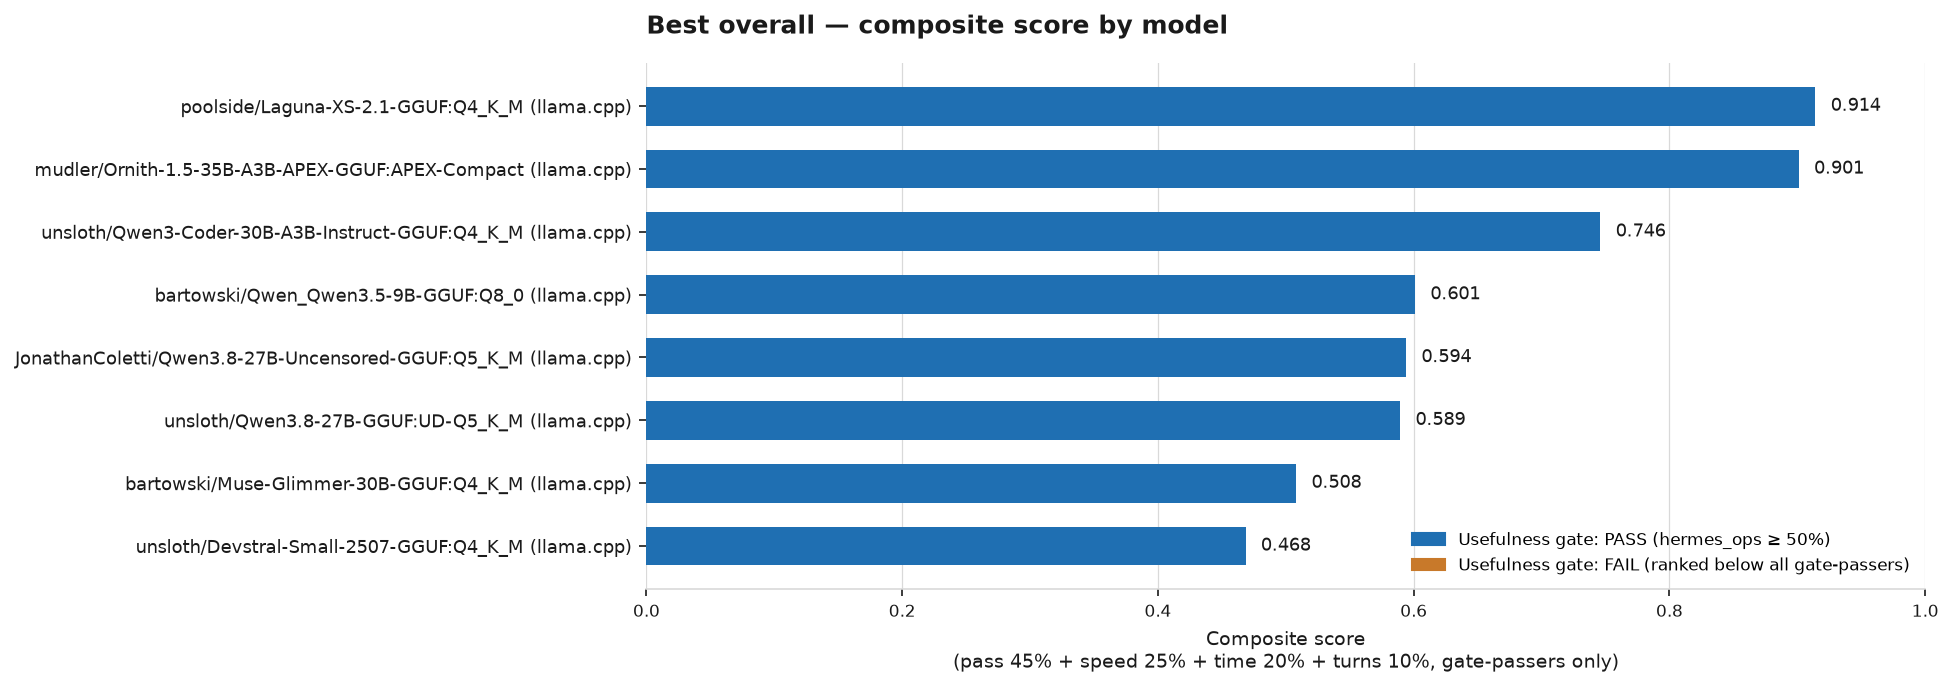
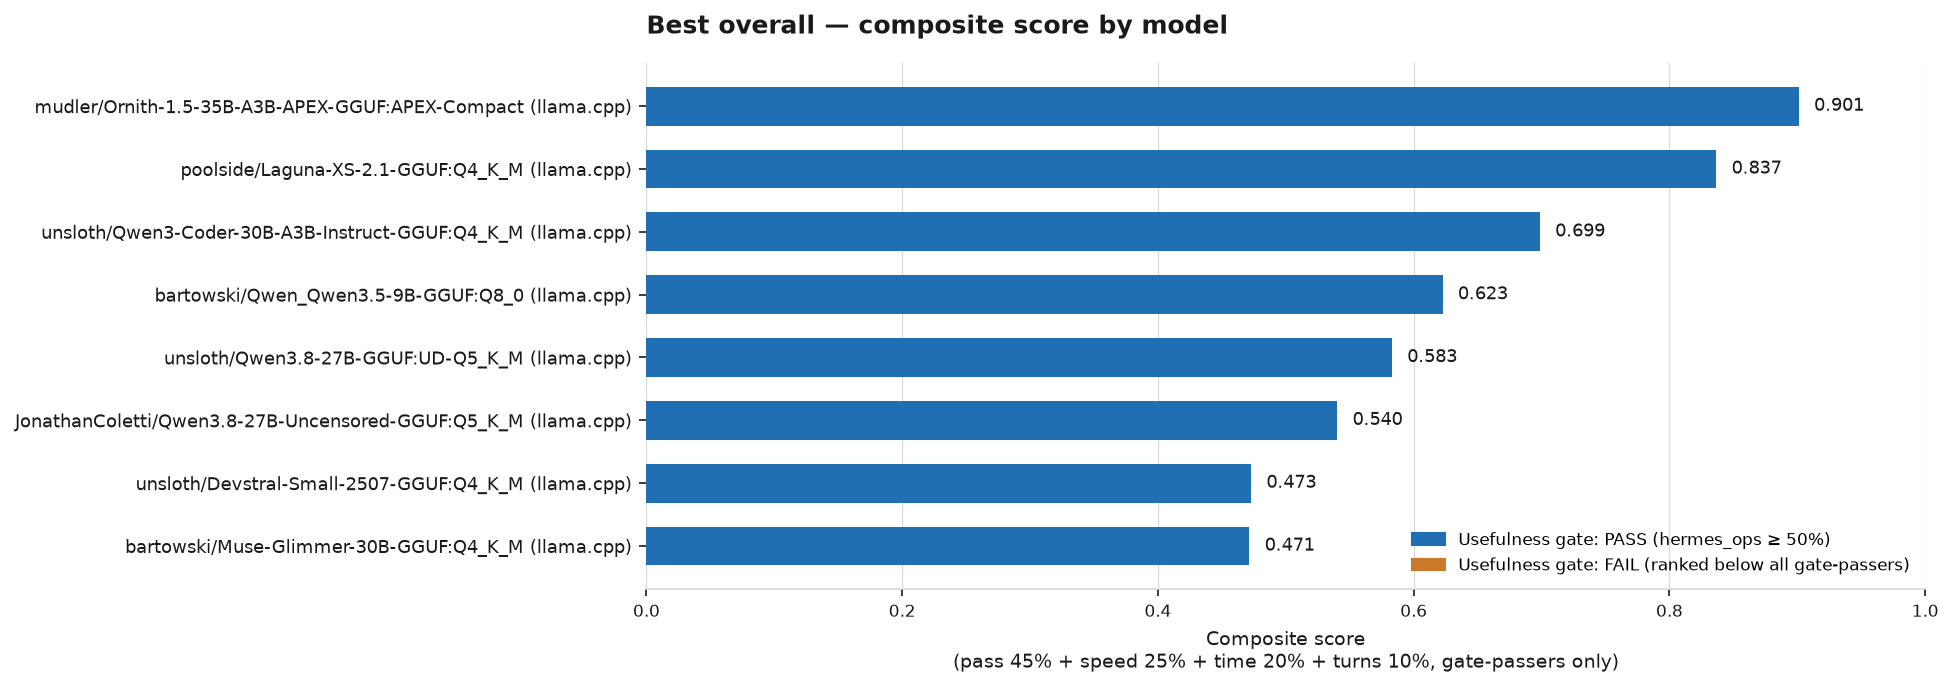
Score combined hermes_ops+coding pass rate, not coding alone
Laguna-XS-2.1 (91% coding, bare 50% hermes_ops) had briefly ranked #1 over
APEX-Compact (100% on both) purely on speed/time, because hermes_ops only
ever gated (pass/fail at >=50%) and never affected score once past that gate
-- a 50% and a 100% hermes_ops record scored identically. User's call: score
every hermes_ops and coding task as one equal unit toward a single combined
"pass" rate, rather than treating hermes_ops-quality as invisible above the
gate or adding a separately-weighted axis for it.

_composite_coding_score's "pass" component is now (hermes_ops passes +
coding passes) / (hermes_ops tasks + coding tasks), replacing coding-only
coding_pass_rate. The >=50% hermes_ops gate itself is unchanged -- this only
changes scoring among gate-passers. Regenerating: APEX-Compact is back to #1
(0.901, unchanged since it was already 100%/100%), Laguna-XS-2.1 drops to #2
(0.837, down from 0.914) -- matching this project's actual hand-curated
recommendation without needing a caveat about the chart's top row.

Added a regression test reproducing the exact Laguna-vs-APEX scenario,
confirmed to fail on the pre-fix code and pass on the fix. Full suite:
200/200 green.

Claude-Session: https://claude.ai/code/session_012m5xNdf5R4K1kRH1AoGN1f

diff --git a/runner/build_leaderboard.py b/runner/build_leaderboard.py
@@ -337,13 +337,11 @@ def compute_group_stats(groups):
 
         coding_scored = [r for r in non_sanity_scored if r["suite"] in CODING_SUITES]
         hermes_ops_scored = [r for r in non_sanity_scored if r["suite"] not in CODING_SUITES]
-        coding_pass_rate = (
-            sum(1 for r in coding_scored if r.get("pass")) / len(coding_scored)
-            if coding_scored else None
-        )
+        n_coding_pass = sum(1 for r in coding_scored if r.get("pass"))
+        n_hermes_ops_pass = sum(1 for r in hermes_ops_scored if r.get("pass"))
+        coding_pass_rate = n_coding_pass / len(coding_scored) if coding_scored else None
         hermes_ops_pass_rate = (
-            sum(1 for r in hermes_ops_scored if r.get("pass")) / len(hermes_ops_scored)
-            if hermes_ops_scored else None
+            n_hermes_ops_pass / len(hermes_ops_scored) if hermes_ops_scored else None
         )
 
         coding_wall_values = [r["wall_seconds"] for r in coding_scored if r.get("wall_seconds") is not None]
@@ -367,6 +365,8 @@ def compute_group_stats(groups):
             "reasoning_effort": reasoning_effort,
             "coding_pass_rate": coding_pass_rate,
             "hermes_ops_pass_rate": hermes_ops_pass_rate,
+            "n_coding_pass": n_coding_pass,
+            "n_hermes_ops_pass": n_hermes_ops_pass,
             "avg_coding_wall": avg_coding_wall,
             "avg_coding_turns": avg_coding_turns,
             "n_sanity": len(sanity_scored),
@@ -453,7 +453,10 @@ def rank_groups(group_stats):
     against an absolute target, since "fast" and "few turns" are only
     meaningful relative to what this hardware/task-set actually
     produces:
-      pass  = coding_pass_rate directly (already 0.0-1.0)
+      pass  = (hermes_ops passes + coding passes) / (hermes_ops tasks +
+              coding tasks) -- combined across BOTH suites, not coding
+              alone (changed 2026-08-29, see _composite_coding_score's
+              own comment for why)
       speed = avg_tps / fastest group's avg_tps
       time  = fastest (lowest) group's avg_coding_wall / this group's
               avg_coding_wall (shorter is better, so INVERTED)
@@ -547,7 +550,24 @@ def rank_groups(group_stats):
     )
 
     def _composite_coding_score(gs):
-        pass_component = gs["coding_pass_rate"] or 0.0
+        # "pass" reflects EVERY real task attempted -- hermes_ops AND
+        # coding combined, not coding alone -- fixed 2026-08-29 (user
+        # request) after Laguna-XS-2.1 (91% coding, but a bare 50%
+        # hermes_ops pass) ranked #1 over APEX-Compact (100% on both)
+        # purely on speed/time, since hermes_ops previously only gated
+        # (pass/fail at 50%) and never affected the score once past that
+        # gate -- a 50% and a 100% hermes_ops record scored identically.
+        # Each task, hermes_ops or coding, now counts as one equal unit
+        # toward "pass" ("each test passed adds to the total," per the
+        # user's own framing) rather than treating hermes_ops-quality and
+        # coding-quality as separate axes with their own weights. The
+        # >=50% hermes_ops GATE is unchanged and still applies first --
+        # this only changes what happens to score AMONG gate-passers.
+        pass_component = (
+            (gs["n_hermes_ops_pass"] + gs["n_coding_pass"])
+            / (gs["n_hermes_ops"] + gs["n_coding"])
+            if (gs["n_hermes_ops"] + gs["n_coding"]) else 0.0
+        )
         speed_component = (
             gs["avg_tps_val"] / max_tps_for_score
             if gs["avg_tps_val"] and max_tps_for_score else 0.0
@@ -751,7 +771,13 @@ def main():
     lines.append("fail-fast gate); every gate-passing group ranks above every gate-failing one")
     lines.append("regardless of the score below. **Score** among gate-passers is a weighted")
     lines.append(
-        f"composite over four coding-suite axes — pass rate ({CODING_SCORE_WEIGHTS['pass']:.0%}),"
+        f"composite over four axes — combined pass rate ({CODING_SCORE_WEIGHTS['pass']:.0%},"
+    )
+    lines.append(
+        "hermes_ops + coding tasks together, not coding alone — a 50%-hermes_ops record"
+    )
+    lines.append(
+        "no longer scores identically to a 100% one once both clear the gate above),"
     )
     lines.append(
         f"speed ({CODING_SCORE_WEIGHTS['speed']:.0%}), time taken ({CODING_SCORE_WEIGHTS['time']:.0%}),"

diff --git a/runner/tests/test_build_leaderboard.py b/runner/tests/test_build_leaderboard.py
@@ -501,6 +501,43 @@ class CompositeRankingTests(unittest.TestCase):
         wrong_rank = next(i for i, l in enumerate(section.splitlines()) if "| wrong " in l)
         self.assertLess(correct_rank, wrong_rank, "with equal speed, the higher-coding-pass-rate model must rank first")
 
+    def test_weak_hermes_ops_record_costs_score_even_above_the_gate(self):
+        # Real incident (2026-08-29): Laguna-XS-2.1 (91% coding, but a
+        # BARE 50% hermes_ops pass) ranked #1 over APEX-Compact (100% on
+        # both) purely on speed/time, because hermes_ops previously only
+        # gated (pass/fail at 50%) and never affected score once past
+        # that gate -- a 50% and a 100% hermes_ops record scored
+        # identically. "pass" now combines hermes_ops+coding into one
+        # rate, so a model that barely clears the gate scores lower than
+        # one with a clean sweep, even with a real speed/time edge.
+        rows = (
+            self._complete_rows(
+                "fast-but-unreliable", hermes_ops_passes=[True, True, False, False],
+                coding_passes=[True] * 10 + [False], tps=34.8, config_hash="h1",
+                wall_seconds=181, turns=24.5,
+            )
+            + self._complete_rows(
+                "slower-but-clean", hermes_ops_passes=[True] * 4,
+                coding_passes=[True] * 11, tps=28.6, config_hash="h2",
+                wall_seconds=215, turns=17.5,
+            )
+        )
+        self._write_log(rows)
+        bl.main()
+        text = (self.repo / "results" / "LEADERBOARD.md").read_text()
+        section = self._best_overall_section(text)
+        unreliable_rank = next(
+            i for i, l in enumerate(section.splitlines()) if "fast-but-unreliable" in l
+        )
+        clean_rank = next(
+            i for i, l in enumerate(section.splitlines()) if "slower-but-clean" in l
+        )
+        self.assertLess(
+            clean_rank, unreliable_rank,
+            "a clean hermes_ops sweep must outrank a bare-gate-pass record "
+            "with a speed/time edge, once hermes_ops quality is part of the score",
+        )
+
     def test_large_speed_advantage_can_outrank_modest_pass_rate_advantage(self):
         # Deliberate, documented consequence of pass+speed both carrying
         # real weight: a LARGE ENOUGH speed gap can still flip a modest

diff --git a/results/LEADERBOARD.md b/results/LEADERBOARD.md
@@ -297,7 +297,9 @@ suite coverage. **Usefulness gate** (pass/fail tier, not a weighted input) — h
 pass rate must be ≥50% (majority-pass, same concept as run_bench.py's sanity
 fail-fast gate); every gate-passing group ranks above every gate-failing one
 regardless of the score below. **Score** among gate-passers is a weighted
-composite over four coding-suite axes — pass rate (45%),
+composite over four axes — combined pass rate (45%,
+hermes_ops + coding tasks together, not coding alone — a 50%-hermes_ops record
+no longer scores identically to a 100% one once both clear the gate above),
 speed (25%), time taken (20%),
 and turns used (10%) — each normalized 0.0-1.0 against
 the best value seen among this run's gate-passing groups (see
@@ -312,14 +314,14 @@ most total coding+hermes_ops evidence, then recency.
 
 | rank | model | engine | quant | reasoning⁶ | config | usefulness gate | score | coding | speed | avg time (s) | avg turns |
 |---|---|---|---|---|---|---|---|---|---|---|---|
-| 1 | poolside/Laguna-XS-2.1-GGUF:Q4_K_M | llama.cpp | — | thinking | 644ba3997136 | PASS (50%, 8) | 0.914 | 91% (11) | 34.8 tok/s | 181 | 24.5 |
-| 2 | mudler/Ornith-1.5-35B-A3B-APEX-GGUF:APEX-Compact | llama.cpp | — | unspecified | 7b0652d1fb9e | PASS (100%, 8) | 0.901 | 100% (11) | 28.6 tok/s | 215 | 17.5 |
-| 3 | unsloth/Qwen3-Coder-30B-A3B-Instruct-GGUF:Q4_K_M | llama.cpp | — | instruct | 644415678c37 | PASS (75%, 8) | 0.746 | 100% (11) | 20.9 tok/s | 343 | 32.9 |
-| 4 | bartowski/Qwen_Qwen3.5-9B-GGUF:Q8_0 | llama.cpp | — | thinking | a2d241742068 | PASS (75%, 8) | 0.601 | 64% (11) | 21.0 tok/s | 353 | 21.8 |
-| 5 | JonathanColetti/Qwen3.8-27B-Uncensored-GGUF:Q5_K_M | llama.cpp | — | thinking (medium) | b03fc3f2b8f8 | PASS (62%, 8) | 0.594 | 91% (11) | 6.7 tok/s | 980 | 13.5 |
-| 6 | unsloth/Qwen3.8-27B-GGUF:UD-Q5_K_M | llama.cpp | — | thinking (medium) | 340ca3032e6c | PASS (88%, 8) | 0.589 | 91% (11) | 6.8 tok/s | 935 | 14.5 |
-| 7 | bartowski/Muse-Glimmer-30B-GGUF:Q4_K_M | llama.cpp | — | thinking | 38ccea45c281 | PASS (62%, 8) | 0.508 | 82% (11) | 8.5 tok/s | 973 | 32.4 |
-| 8 | unsloth/Devstral-Small-2507-GGUF:Q4_K_M | llama.cpp | — | n/a | ffa862c18cff | PASS (75%, 8) | 0.468 | 73% (11) | 7.7 tok/s | 902 | 29.4 |
+| 1 | mudler/Ornith-1.5-35B-A3B-APEX-GGUF:APEX-Compact | llama.cpp | — | unspecified | 7b0652d1fb9e | PASS (100%, 8) | 0.901 | 100% (11) | 28.6 tok/s | 215 | 17.5 |
+| 2 | poolside/Laguna-XS-2.1-GGUF:Q4_K_M | llama.cpp | — | thinking | 644ba3997136 | PASS (50%, 8) | 0.837 | 91% (11) | 34.8 tok/s | 181 | 24.5 |
+| 3 | unsloth/Qwen3-Coder-30B-A3B-Instruct-GGUF:Q4_K_M | llama.cpp | — | instruct | 644415678c37 | PASS (75%, 8) | 0.699 | 100% (11) | 20.9 tok/s | 343 | 32.9 |
+| 4 | bartowski/Qwen_Qwen3.5-9B-GGUF:Q8_0 | llama.cpp | — | thinking | a2d241742068 | PASS (75%, 8) | 0.623 | 64% (11) | 21.0 tok/s | 353 | 21.8 |
+| 5 | unsloth/Qwen3.8-27B-GGUF:UD-Q5_K_M | llama.cpp | — | thinking (medium) | 340ca3032e6c | PASS (88%, 8) | 0.583 | 91% (11) | 6.8 tok/s | 935 | 14.5 |
+| 6 | JonathanColetti/Qwen3.8-27B-Uncensored-GGUF:Q5_K_M | llama.cpp | — | thinking (medium) | b03fc3f2b8f8 | PASS (62%, 8) | 0.540 | 91% (11) | 6.7 tok/s | 980 | 13.5 |
+| 7 | unsloth/Devstral-Small-2507-GGUF:Q4_K_M | llama.cpp | — | n/a | ffa862c18cff | PASS (75%, 8) | 0.473 | 73% (11) | 7.7 tok/s | 902 | 29.4 |
+| 8 | bartowski/Muse-Glimmer-30B-GGUF:Q4_K_M | llama.cpp | — | thinking | 38ccea45c281 | PASS (62%, 8) | 0.471 | 82% (11) | 8.5 tok/s | 973 | 32.4 |
 
 ![Best overall composite score by model](score_chart.png)
 

diff --git a/results/SUMMARY.md b/results/SUMMARY.md
@@ -44,24 +44,26 @@ harness code risks blending incompatible grading semantics. The
 Qwen3.8-27B xhigh-effort row is exactly this case; its real data is
 reconciled by hand below since the auto-table can't safely show it.
 
-**Read the chart's #1 with its usefulness-gate number, not just the
-score**: `Laguna-XS-2.1` now ranks #1 in the auto-table (0.914) ahead of
-`APEX-Compact` (0.901) — but its usefulness gate is `PASS (50%, 8)`, a
-bare majority pass, not the clean sweep APEX-Compact has. The composite
-score weights pass rate/speed/time/turns among gate-passers; it does NOT
-reward a stronger-than-minimum hermes_ops record beyond clearing the
-50% bar, and doesn't know about Laguna's documented real reliability
-gaps (turn-budget exhaustion, a self-regression, fabricating data under
-pressure — see "Resolved: Laguna-XS-2.1" below). That's exactly why this
-section stays hand-curated rather than just deferring to the chart's top
-row. The numbers throughout this doc are reconciled by hand directly
-from `log.jsonl`'s actual task rows, not read off that table.
+**"Pass rate" now means hermes_ops + coding combined, not coding alone**
+(fixed same day, user request): `Laguna-XS-2.1` had briefly ranked #1 in
+the auto-table (0.914) ahead of `APEX-Compact` (0.901) purely on
+speed/time, because hermes_ops was only ever a pass/fail gate (≥50%) and
+never affected score once past it — a bare 50% hermes_ops record scored
+identically to a clean 100% sweep. The "pass" axis of the composite now
+counts every hermes_ops AND coding task as one equal unit toward a single
+combined rate, so a barely-gate-passing record costs real score even with
+a speed/time edge. Regenerating: `APEX-Compact` is back to #1 (0.901),
+`Laguna-XS-2.1` #2 (0.837) — matching this doc's actual recommendation
+without needing a hand-curated caveat about the chart's top row. The
+≥50% hermes_ops gate itself is unchanged; this only changed what happens
+to score *above* it.
 
 ![Best overall composite score by model](score_chart.png)
 
-*Composite score = pass rate 45% + speed 25% + time taken 20% + turns used*
-*10%, gate-passers only (hermes_ops ≥ 50%) — see `LEADERBOARD.md`'s "Best*
-*overall" table for the exact per-model numbers behind this chart.*
+*Composite score = combined hermes_ops+coding pass rate 45% + speed 25% +*
+*time taken 20% + turns used 10%, gate-passers only (hermes_ops ≥ 50%) —*
+*see `LEADERBOARD.md`'s "Best overall" table for the exact per-model*
+*numbers behind this chart.*
 *Auto-regenerated by `runner/plot_leaderboard.py` after every benchmark*
 *run; this image can go stale between SUMMARY.md's own hand-curated edits.*
 
